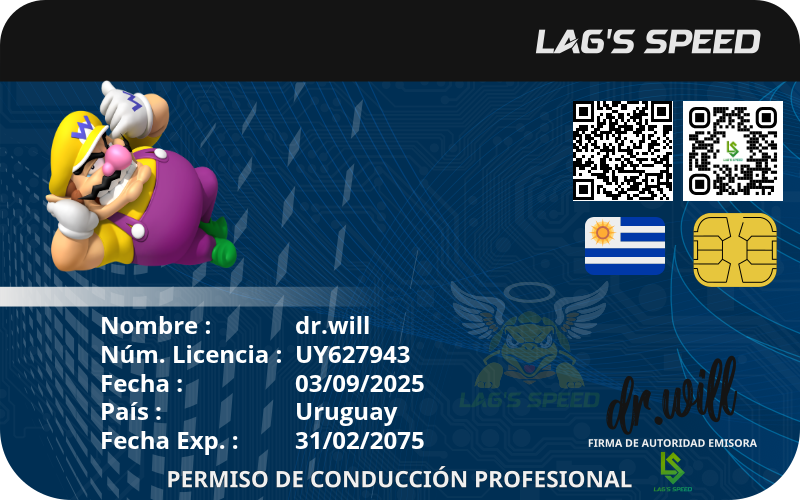
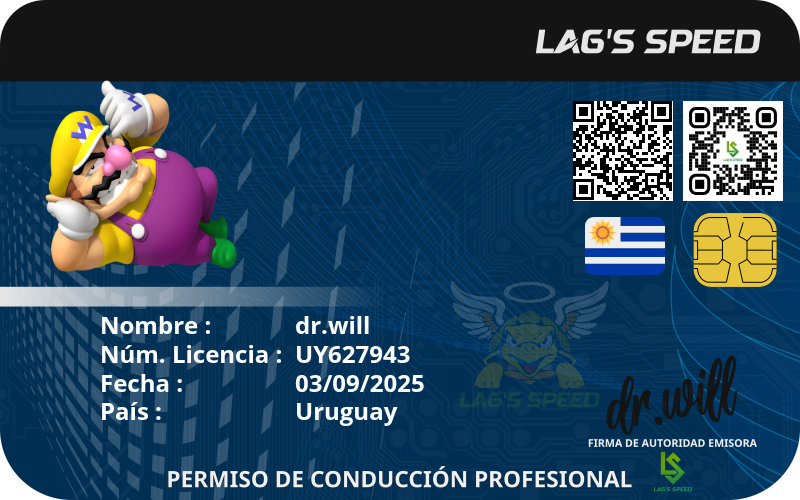
update

Changed region(s): [[0.375, 0.84, 0.5312, 0.9], [0.125, 0.87, 0.2812, 0.9]]

diff --git a/pages/license.html b/pages/license.html
@@ -227,12 +227,6 @@
       return `${day}/${month}/${year}`;
     }
 
-    function getExpirationDate() {
-      const date = new Date();
-      date.setFullYear(date.getFullYear() + 50);
-      return `31/02/${date.getFullYear()}`;
-    }
-
     function debounce(func, wait) {
       let timeout;
       return function executedFunction(...args) {
@@ -320,7 +314,6 @@
 
         // Dibujar texto con etiquetas alineadas
         const currentDate = getCurrentDate();
-        const expirationDate = getExpirationDate();
         ctx.font = `bold 24px ${config.font}`;
         ctx.fillStyle = config.color;
 
@@ -330,7 +323,6 @@
         ctx.fillText("Núm. Licencia :", config.labelX, config.textY + lineHeight);
         ctx.fillText("Fecha :", config.labelX, config.textY + lineHeight * 2);
         ctx.fillText("País :", config.labelX, config.textY + lineHeight * 3);
-        ctx.fillText("Fecha Exp. :", config.labelX, config.textY + lineHeight * 4);
 
         ctx.textAlign = "left";
         ctx.fillText(nombre, config.textX, config.textY);
@@ -342,7 +334,6 @@
         }
         ctx.fillText(currentDate, config.textX, config.textY + lineHeight * 2);
         ctx.fillText(countryName, config.textX, config.textY + lineHeight * 3);
-        ctx.fillText(expirationDate, config.textX, config.textY + lineHeight * 4);
 
         // Generar y dibujar QR codes si existen
         if (truckersmpLink) {
